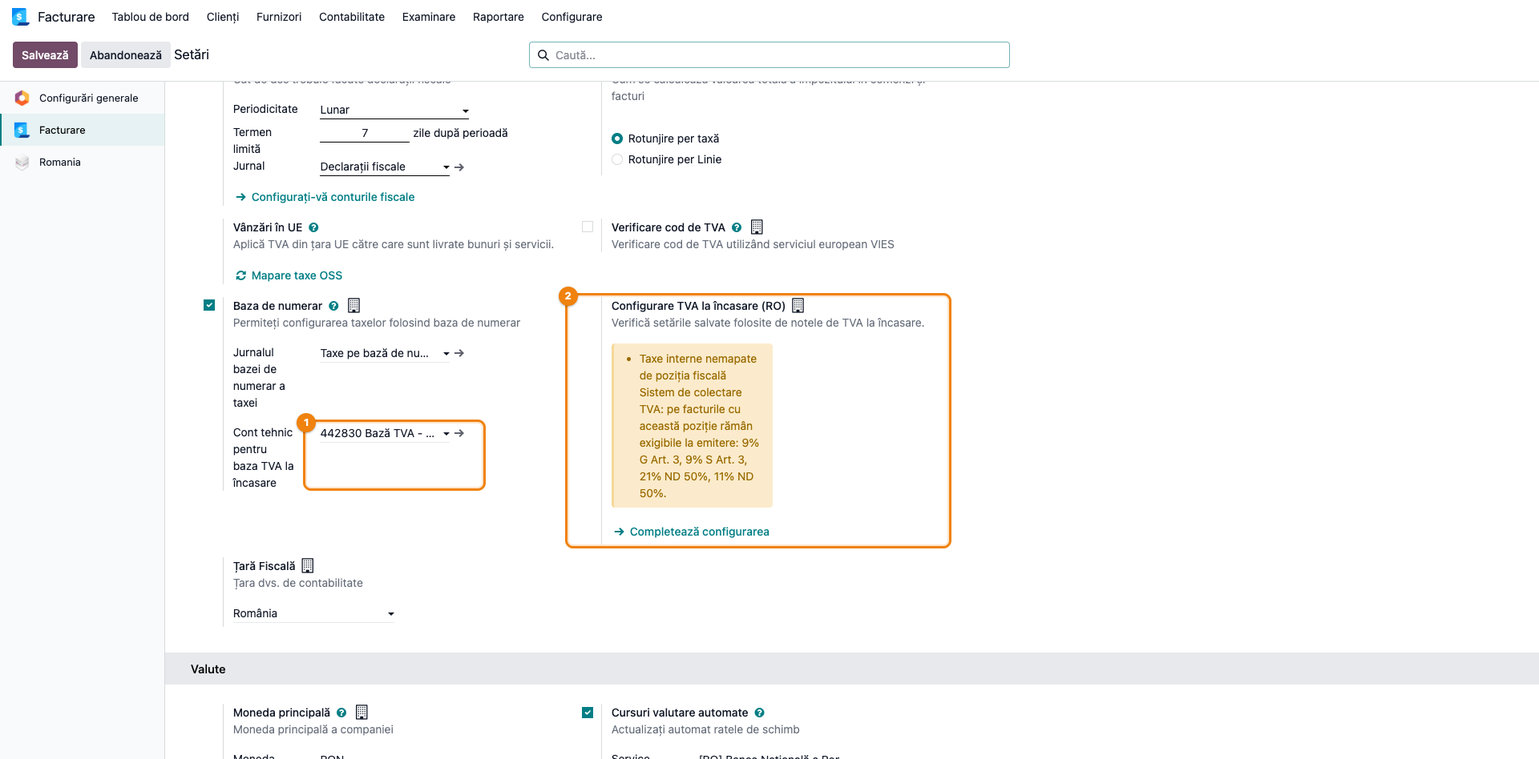
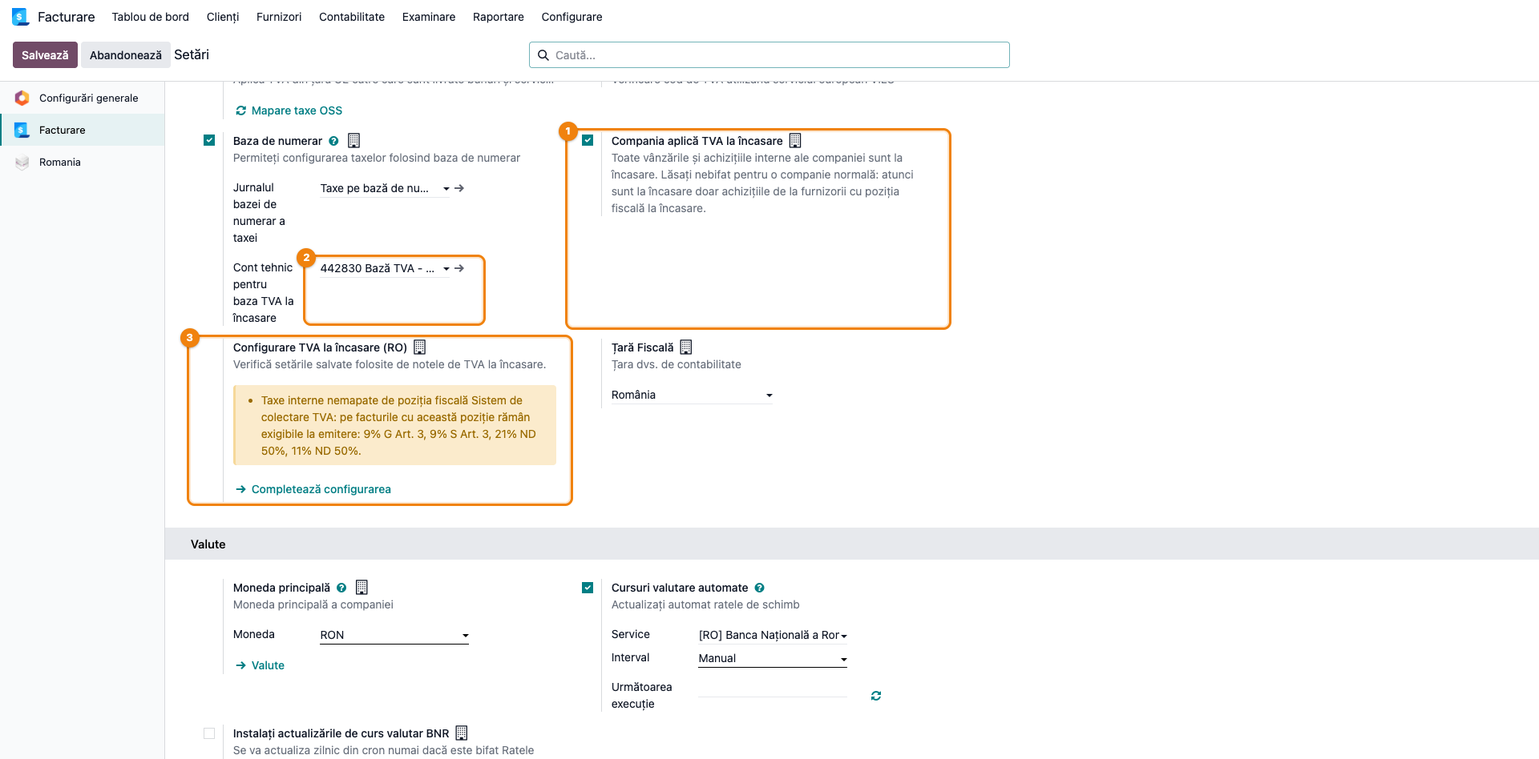
l10n_ro_caba: re-ingestie 19.0.1.1.0 — firma în sistem la încasare automat, vânzarea firmei normale niciodată (l10n_ro_ent#332)

diff --git a/l10n_ro_caba/FISA_CONSULTANT.md b/l10n_ro_caba/FISA_CONSULTANT.md
@@ -27,13 +27,16 @@ setările sunt împrăștiate și prost traduse. Modulul:
 - setează automat, la instalare și la încărcarea planului RO, ce a rămas gol: bifa **Baza de
   numerar**, **jurnalul CABA** și **contul tehnic pentru baza impozabilă 442830**;
 - nu suprascrie nicio valoare deja aleasă de contabil;
+- pune singur poziția fiscală la încasare pe toate facturile și comenzile firmei în sistem (bifa
+  **Compania aplică TVA la încasare**, din Setări) și o scoate de pe facturile de vânzare ale firmei
+  normale — vezi cele 8 cazuri de la 5.4;
 - adaugă în **Setări → Contabilitate → Taxe** o verificare a configurării, cu buton de completare;
 - redenumește câmpul „Cont de primire fiscală de bază" (traducere greșită din nucleu) în
   **„Cont tehnic pentru baza TVA la încasare"**, cu explicație.
 
-Modulul **nu depinde** de OCA `l10n_ro_vat_on_payment`. Acela verifică partenerii în lista ANAF
-și pune singur poziția fiscală pe factură; se poate instala în paralel. Fără el, poziția fiscală
-se pune manual pe partener (vezi pasul 2).
+Modulul **nu depinde** de OCA `l10n_ro_vat_on_payment`. Acela citește regimul partenerilor din
+lista ANAF, cu datele de intrare și ieșire; se poate instala în paralel. Fără el, bifa de pe
+partener se pune manual (vezi pasul 2).
 
 ---
 
@@ -48,6 +51,8 @@ se pune manual pe partener (vezi pasul 2).
 | **Cont de tranziție a bazei de numerar** | Contul de pe taxa la încasare în care stă TVA-ul până la plată: 44281 sau 44282. |
 | **Cont tehnic pentru bază (442830)** | Contul pe care nota CABA scrie baza impozabilă, o dată pe debit și o dată pe credit, doar pentru rândurile de bază din D300. Are mereu sold zero. |
 | **Nota CABA** / **nota de exigibilitate** | Nota creată automat la reconcilierea unei încasări sau plăți cu factura: mută TVA-ul proporțional din 4428 în 4427 / 4426. |
+| **Persoană afiliată** | În practică, o firmă din același grup (legătura e definită la art. 7 pct. 26 Cod fiscal). Între firme din același grup, vânzătorul facturează cu TVA obișnuit, nu la încasare (art. 282 alin. (6) lit. d)). |
+| **Companie / partener în sistem** | Înregistrat(ă) la ANAF în sistemul TVA la încasare. În Odoo: bifa **Compania aplică TVA la încasare** (Setări), respectiv poziția fiscală **Sistem de colectare TVA** pe partener. |
 | **Poziție fiscală** | Regula Odoo care înlocuiește pe factură o taxă cu alta. **Sistem de colectare TVA** înlocuiește TVA-ul obișnuit cu cel la încasare. |
 | **Plată parțială** | Încasarea unei părți din factură. TVA-ul exigibil e proporțional: suma × cotă / (100 + cotă), ex. 605 × 21/121 = 105. |
 | **D300** | Decontul de TVA depus la ANAF. |
@@ -112,6 +117,7 @@ Cu o greșeală de configurare, de exemplu contul tehnic pus pe 44281, verificar
 | Baza de numerar | `tax_exigibility` | bifat |
 | Jurnalul bazei de numerar a taxei | `tax_cash_basis_journal_id` | jurnalul **CABA** „Taxe pe bază de numerar" |
 | Cont tehnic pentru baza TVA la încasare | `account_cash_basis_base_account_id` | **442830 Bază TVA - cont tehnic (sold zero)** |
+| Compania aplică TVA la încasare | `l10n_ro_caba_company` | bifat doar dacă firma e în sistem |
 
 ### 5.2 Contul tehnic pentru bază: de ce 442830 și nu 473
 
@@ -157,7 +163,8 @@ Exigibilitatea și contul de tranziție sunt în fila **Opțiuni Avansate** a ta
 
 Meniu: **Contabilitate → Configurare → Poziții fiscale → Sistem de colectare TVA**. Poziția
 înlocuiește pe factură taxele obișnuite cu cele la încasare (TVA colectat 21% → TVA la colectare
-21% etc.). Nu se aplică automat (e fără „Detectare automată").
+21% etc.). Nu are „Detectare automată": la firma în sistem o pune modulul; la firma normală se pune
+pe furnizorii în sistem (pasul 2).
 
 ![Taxa la încasare 21%: Pe baza plății, cont de tranziție 44281](screenshots/03_taxa_tva_incasare.png)
 
@@ -165,6 +172,61 @@ Taxele pe care le înlocuiește poziția se văd din butonul **Taxe** al poziți
 **Înlocuiește**:
 
 ![Taxele poziției fiscale Sistem de colectare TVA, cu taxele înlocuite](screenshots/04_pozitie_fiscala.png)
+
+### 5.4 Cele 8 cazuri: cine e la încasare
+
+Contează doar regimul **emitentului** facturii și, la achiziții, și regimul **companiei proprii**
+(art. 282, art. 297 alin. (2)–(3)). Regimul clientului nu schimbă nimic pentru vânzător.
+
+| # | Compania proprie | Operațiune | Partener | Rezultat | TVA pe factură | La încasare / plată |
+|---|---|---|---|---|---|---|
+| 1 | normală | vânzare | client normal | TVA obișnuit | 4427 | — |
+| 2 | normală | vânzare | client **în sistem** | **TVA obișnuit** | 4427 | — |
+| 3 | normală | achiziție | furnizor normal | TVA obișnuit | 4426 | — |
+| 4 | normală | achiziție | furnizor **în sistem** | la încasare | 44282 | 4426 = 44282 |
+| 5 | **în sistem** | vânzare | client normal | la încasare | 44281 | 44281 = 4427 |
+| 6 | **în sistem** | vânzare | client în sistem | la încasare | 44281 | 44281 = 4427 |
+| 7 | **în sistem** | achiziție | furnizor normal | la încasare (alin. (3)) | 44282 | 4426 = 44282 |
+| 8 | **în sistem** | achiziție | furnizor în sistem | la încasare | 44282 | 4426 = 44282 |
+
+Cum decide modulul poziția fiscală pe factură:
+
+- **Compania aplică TVA la încasare** bifat → poziția **Sistem de colectare TVA** pe toate
+  facturile, comenzile de vânzare și de achiziție cu parteneri din România (cazurile 5–8);
+- nebifat → poziția vine de pe partener: se pune pe furnizorii în sistem (cazul 4), iar comenzile și
+  facturile de achiziție de la ei o preiau. Pe **facturile de vânzare** modulul o scoate, pentru că
+  regimul clientului nu contează (cazul 2).
+
+Excepții, pe regulile generale (detalii la secțiunea 7):
+
+- **Firme din același grup** (persoane afiliate, art. 7 pct. 26 Cod fiscal; afilierea se apreciază
+  la data facturii — Norme, pct. 26 alin. (14)). Între ele, vânzătorul facturează cu TVA obișnuit
+  (art. 282 alin. (6) lit. d)). Modulul nu le recunoaște singur:
+  - **firma în sistem vinde unei firme din grup:** pe **factura respectivă**, schimbați poziția în
+    **Regimul național (TVA)** înainte de confirmare. Nu puneți poziția pe partener: achizițiile de la
+    el trebuie să rămână cu deducerea la plată (art. 297 alin. (3) nu exceptează firmele din grup);
+  - **firma normală cumpără de la un furnizor în sistem din grup:** nu puneți poziția la încasare pe
+    el — factura lui e cu TVA obișnuit, deci deducerea e imediată (Norme, pct. 67 alin. (6)).
+- **Operațiuni cu locul livrării în afara României** (art. 282 alin. (6) teza I): modulul le
+  recunoaște după țara partenerului și nu pune poziția pentru partenerii din alte țări. **Limitare:**
+  o vânzare taxabilă în România către un partener străin (ex. înregistrat în scopuri de TVA în
+  România, livrare locală cu TVA 21%) ar trebui să fie la încasare; pe astfel de facturi schimbați
+  poziția de mână.
+- **Altă poziție fiscală pusă pe partener** (ex. taxare inversă): câștigă, modulul nu o schimbă.
+
+Clienții persoane fizice sau fără CUI, cu țara România, sunt tot la încasare — legea nu îi exclude.
+Partenerul fără țară e tratat tot ca intern; completați totuși țara, pentru celelalte poziții fiscale
+automate (UE, export). La achizițiile firmei în sistem de la o persoană fizică sau de la un
+neplătitor de TVA nu e nimic de amânat: poziția înlocuiește doar taxele interne taxabile, deci
+factura fără TVA rămâne neschimbată.
+
+**Atenție la cazul 2.** Poziția fiscală de pe partener se aplică pe **orice** document cu el, și la
+vânzare, și la achiziție. La o companie normală, un furnizor în sistem care e și client ar primi
+vânzări la încasare — greșit. Pe facturile de vânzare create direct modulul scoate poziția. **Limitare:**
+comenzile de vânzare și comenzile din POS către acel partener o preiau de pe partener, iar factura
+creată din comandă o păstrează; pe ele schimbați poziția în **Regimul național (TVA)** înainte de
+confirmare. Indicatorul practic pentru orice furnizor e mențiunea „TVA la încasare" de pe factura
+primită: un furnizor în sistem din același grup cu dvs. nu o pune.
 
 ---
 
@@ -175,24 +237,24 @@ Taxele pe care le înlocuiește poziția se văd din butonul **Taxe** al poziți
 **Contabilitate → Configurare → Setări**, secțiunea **Taxe**. Dacă verificarea nu e verde, apăsați
 **Completează configurarea**, apoi rezolvați manual ce a rămas în listă.
 
-### Pasul 2 — Poziția fiscală pe parteneri
+### Pasul 2 — Regimul companiei și al furnizorilor
 
-**Contabilitate → Clienți → Clienți** (sau **Contabilitate → Furnizori → Furnizori**), fila
-**Vânzări & Achiziții**, grupul **Informație fiscală**, câmpul **Poziție fiscală** = **Sistem de
-colectare TVA**:
+- **Firma proprie e în sistem:** în **Setări → Contabilitate → Taxe** bifați **Compania aplică TVA
+  la încasare** (captura de la 5.1). Nu mai e nimic de pus pe parteneri.
+- **Firma proprie e normală:** pe fiecare furnizor în sistem, **Contabilitate → Furnizori →
+  Furnizori**, fila **Vânzări & Achiziții**, grupul **Informație fiscală**, câmpul **Poziție
+  fiscală** = **Sistem de colectare TVA**. Comenzile și facturile de achiziție de la el o preiau.
 
-- **firma proprie aplică TVA la încasare** — pe toți clienții și furnizorii interni (vânzările și
-  achizițiile ei sunt toate la încasare, cu excepțiile de la secțiunea 7);
-- **doar furnizorul aplică TVA la încasare** — pe acel furnizor.
+![Furnizorul cu poziția fiscală Sistem de colectare TVA](screenshots/05_furnizor_tva_incasare.png)
 
-![Partenerul cu poziția fiscală Sistem de colectare TVA](screenshots/05_partener_pozitie_fiscala.png)
-
-Cu OCA `l10n_ro_vat_on_payment` instalat, poziția se pune singură pe factură, după lista ANAF la
-data facturii.
+Regimul partenerilor se verifică în lista ANAF a contribuabililor în sistemul TVA la încasare. Cu
+OCA `l10n_ro_vat_on_payment` instalat, lista se descarcă și se aplică automat, cu datele de intrare
+și ieșire din sistem.
 
 ### Pasul 3 — Factura de vânzare
 
-Factura: 1.000 lei + TVA 21% = 1.210 lei, cu poziția **Sistem de colectare TVA**. Taxa de pe linie
+Cazurile 5–6 (firma proprie în sistem). Factura: 1.000 lei + TVA 21% = 1.210 lei; poziția
+**Sistem de colectare TVA** se pune singură. Taxa de pe linie
 devine **TVA la colectare - colectat 21%**. Pe factură trebuie să apară mențiunea „TVA la
 încasare" (art. 319 alin. (20) lit. p)).
 
@@ -226,7 +288,8 @@ Nota se deschide din butonul **Înregistrări pe bază de numerar** de pe factur
 
 ### Pasul 5 — Achiziția
 
-Factură de la un furnizor cu **Sistem de colectare TVA**: 1.000 lei + 210 TVA.
+Cazurile 4, 7 și 8 (furnizorul sau firma proprie în sistem). Factură de 1.000 lei + 210 TVA; poziția
+**Sistem de colectare TVA** vine de pe furnizor sau, la firma în sistem, se pune singură.
 
 | Moment | Cont | Debit | Credit |
 |---|---|---:|---:|
@@ -263,26 +326,43 @@ Meniu: **Contabilitate → Raportare → Declarații fiscale**, raportul **VAT R
 | D300 (`l10n_ro_anaf_d300`) | Rândurile de bază și TVA se alimentează din grilele de pe nota CABA, în luna încasării. |
 | `l10n_ro_vat_on_payment_lock` | Blochează desfacerea reconcilierii dacă nota CABA e într-o perioadă deja declarată. |
 | OCA `l10n_ro_vat_on_payment` | Opțional: lista ANAF și poziția fiscală automată pe factură. |
-| OCA `l10n_ro_dvi`, `l10n_ro_nondeductible_vat` | Folosesc același cont tehnic pentru liniile lor de bază. |
+| Vânzări / Achiziții (comenzi) | La firma în sistem, comenzile de vânzare și de achiziție primesc poziția la încasare, iar facturile create din ele o preiau. La firma normală, comenzile de achiziție preiau poziția furnizorului. |
+| Comenzi de vânzare / POS, firmă normală | **Limitare:** către un furnizor în sistem care e și client, comanda preia poziția la încasare de pe partener, iar factura creată din ea o păstrează. Schimbați poziția în **Regimul național (TVA)** pe comandă sau pe factură. |
+| OCA `l10n_ro_dvi`, `l10n_ro_nondeductible_vat` | Folosesc același cont tehnic pentru liniile lor de bază. TVA-ul nedeductibil nu trece prin 44282 — se amână doar partea deductibilă (Norme, pct. 67 alin. (8)). |
 | SAF-T (D406) | 442830 apare în balanță și în registrul jurnal cu rulaje egale; trebuie mapat pe 4428. |
 | Jurnale TVA (`l10n_ro_account_vat_journal`) | Raportează TVA-ul la încasare în luna încasării. |
 
-**Operațiuni excluse** (art. 282 alin. (6)): pe ele se aplică regulile generale chiar dacă firma e
-în sistem, deci nu primesc taxa la încasare:
+**Operațiuni excluse la vânzare** (art. 282 alin. (6)): pe ele se aplică regulile generale chiar dacă
+firma e în sistem, deci nu primesc taxa la încasare:
 
 - taxarea inversă (art. 307 alin. (2)–(6) și art. 331);
 - operațiunile scutite de TVA;
 - regimurile speciale din art. 311–313 (agenții de turism, second-hand, artă, aur de investiții);
-- livrările către persoane afiliate;
-- pe achiziții: importul, achizițiile intracomunitare și taxarea inversă nu amână deducerea
-  (art. 297 alin. (3)) — TVA-ul din DVI nu trece prin 44282.
+- livrările către firme din același grup (persoane afiliate) — poziția se schimbă de mână pe
+  factură, vezi 5.4.
+
+**Nu amână deducerea** (art. 297 alin. (3)): importul, achizițiile intracomunitare și taxarea
+inversă — TVA-ul din DVI nu trece prin 44282. Nici TVA-ul nedeductibil: se amână doar partea
+deductibilă (Norme, pct. 67 alin. (8)).
 
 Poziția fiscală mapează doar taxele interne taxabile, deci aceste operațiuni rămân pe regulile
-generale dacă au taxele lor proprii. Livrările către persoane afiliate nu se pot deosebi după taxă:
-pentru acești clienți nu puneți poziția fiscală.
+generale dacă au taxele lor proprii.
 
-**Ieșirea din sistem:** facturile emise înainte rămân la încasare, oricând s-ar încasa (art. 282
-alin. (7) lit. b)). Soldul 4428 nu se reclasifică automat.
+**Intrarea și ieșirea din sistem.** Ieșirea la cerere sau prin depășirea plafonului produce efecte de
+la prima zi a perioadei fiscale următoare (art. 282 alin. (5)); la mijloc de perioadă se iese doar la
+scoaterea din evidența TVA sau la intrarea într-un grup fiscal unic (Norme, pct. 26 alin. (17)).
+Facturile emise cât s-a aplicat sistemul rămân la încasare oricând s-ar încasa (art. 282 alin. (3));
+pentru facturile de avans emise înainte de ieșire, cu livrarea după ieșire, sistemul continuă doar
+pentru suma facturată înainte (art. 282 alin. (7) lit. b)), iar încasările parțiale se atribuie
+întâi părții facturate înainte de ieșire (Norme, pct. 26 alin. (15) lit. b)). Simetric, facturile
+emise înainte de intrare nu intră în sistem (art. 282 alin. (7) lit. a)). La achiziții, TVA-ul de pe
+facturile primite cât ați aplicat sistemul se deduce tot la plată.
+
+**Bifa și poziția nu au dată:** schimbați **Compania aplică TVA la încasare** exact la data de efect,
+după ce ați confirmat ciornele; comenzile și ciornele create înainte păstrează poziția veche —
+verificați-le. La fel, scoateți poziția **Sistem de colectare TVA** de pe furnizor la data ieșirii
+lui din registrul ANAF (automat cu OCA `l10n_ro_vat_on_payment`). Facturile confirmate nu se modifică, iar
+soldul 4428 nu se reclasifică.
 
 **Facturi neîncasate:** nu există un termen după care TVA-ul devine exigibil automat; soldul rămâne
 pe 4428 până la încasare, compensare sau cesiune, ori până la o ajustare după art. 287.
@@ -311,11 +391,11 @@ Generate reproductibil de `tests/test_screenshots.py` (companie RO, plan RO, dat
 
 | # | Fișier | Ce arată |
 |---|---|---|
-| 1 | `01_setari_caba.png` | Setări → Taxe: Baza de numerar, jurnalul CABA, contul tehnic 442830 și verificarea RO |
+| 1 | `01_setari_caba.png` | Setări → Taxe: Baza de numerar, jurnalul CABA, contul tehnic 442830, bifa „Compania aplică TVA la încasare" și verificarea RO |
 | 2 | `02_setari_caba_eroare.png` | Verificarea cu contul tehnic pus greșit pe 44281 |
 | 3 | `03_taxa_tva_incasare.png` | Taxa la încasare 21%, fila Opțiuni Avansate |
 | 4 | `04_pozitie_fiscala.png` | Taxele poziției Sistem de colectare TVA și ce înlocuiesc |
-| 5 | `05_partener_pozitie_fiscala.png` | Partenerul cu poziția fiscală |
+| 5 | `05_furnizor_tva_incasare.png` | Furnizorul cu poziția fiscală Sistem de colectare TVA |
 | 6 | `06_factura_vanzare.png` | Factura de vânzare, elemente jurnal (44281) |
 | 7 | `07_nota_caba_vanzare.png` | Nota CABA după încasarea parțială |
 | 8 | `08_factura_achizitie.png` | Factura de achiziție, elemente jurnal (44282) |

diff --git a/l10n_ro_caba/index.md b/l10n_ro_caba/index.md
@@ -1,7 +1,7 @@
 # Romania - TVA la încasare (CABA) (FR-16) (localizat la `l10n_ro_caba/index.md`)
 
 - **Nume Tehnic:** `l10n_ro_caba`
-- **Versiune:** `19.0.1.0.0`
+- **Versiune:** `19.0.1.1.0`
 - **Cale:** https://github.com/terrabit-solutions/l10n_ro_ent/tree/19.0/l10n_ro_caba
 - **Cale Locală:** `odoo-addons/l10n_ro_ent/l10n_ro_caba`
 - **Ultima Ingestie:** `2026-09-25`
@@ -13,9 +13,12 @@ Modulul completează configurarea TVA la încasare (mecanismul nativ Odoo *cash 
 CABA) pe planul de conturi al României. Planul RO aduce taxele la încasare, poziția fiscală
 „Sistem de colectare TVA" și jurnalul CABA, dar lasă nesetat contul tehnic pe care se scriu
 liniile de bază din notele de exigibilitate — fără el, la fiecare încasare baza rulează debit =
-credit pe contul de venit sau cheltuială al facturii, ceea ce umflă rulajul acelui cont. Modulul
-setează automat ce lipsește, semnalează în Setări orice configurare incompletă și oferă contabilului
-o fișă consultant cu fluxul complet, notele contabile și reflectarea în D300.
+credit pe contul de venit sau cheltuială al facturii, ceea ce umflă rulajul acelui cont. Peste
+configurarea automată, modulul decide **cine e efectiv la TVA la încasare** pe fiecare document —
+firmă proprie, furnizor sau client — combinând bifa companiei cu poziția fiscală de pe partener,
+astfel încât o firmă normală nu ajunge niciodată să vândă cu TVA la încasare doar pentru că regimul
+clientului o cerea. Semnalează în Setări orice configurare incompletă și oferă contabilului o fișă
+consultant cu fluxul complet, matricea celor 8 cazuri, notele contabile și reflectarea în D300.
 
 #### 2. Funcționalități Cheie
 
@@ -24,19 +27,34 @@ o fișă consultant cu fluxul complet, notele contabile și reflectarea în D300
   **442830 „Bază TVA - cont tehnic (sold zero)"**, creat dacă lipsește; nu suprascrie valorile deja
   alese de contabil. Rulează doar dacă firma are taxe la încasare (`tax_exigibility = on_payment`)
   configurate pe planul RO.
+- Bifă nouă în Setări, **Compania aplică TVA la încasare** (`l10n_ro_caba_company`): pentru o firmă
+  înregistrată la ANAF în sistem, toate facturile și comenzile (vânzare, achiziție, POS) cu
+  parteneri din România primesc singure poziția fiscală **Sistem de colectare TVA**, fără să mai
+  fie nevoie s-o pună cineva pe fiecare partener. O poziție deja aleasă manual pe partener (ex.
+  taxare inversă) câștigă și nu e înlocuită.
+- Pentru o firmă **normală** (bifa nebifată), regimul se citește doar de pe partener: o achiziție
+  de la un furnizor cu poziția **Sistem de colectare TVA** e la încasare, dar o vânzare **niciodată**
+  — chiar dacă furnizorul respectiv e și client, factura lui de vânzare rămâne la TVA obișnuit
+  (regimul cumpărătorului nu contează pentru exigibilitate, art. 282 alin. (3) Cod fiscal). Modulul
+  scoate automat poziția la încasare de pe facturile de vânzare ale firmei normale la calculul
+  poziției fiscale.
 - În **Contabilitate → Configurare → Setări → Taxe**, sub blocul „Baza de numerar", adaugă blocul
   „Configurare TVA la încasare (RO)" cu o verificare vizibilă doar pentru companii cu țara fiscală
-  România: CABA dezactivat, jurnal lipsă, taxe la încasare fără cont de tranziție (4428), cont de
-  bază gol, cont de bază suprapus peste 44281/44282 sau pus pe un cont de venituri/cheltuieli, taxe
-  interne nemapate de poziția fiscală pe încasare.
+  România (afișată acum pe toată lățimea blocului, nu doar pe lățimea textului): CABA dezactivat,
+  jurnal lipsă, taxe la încasare fără cont de tranziție (4428), cont de bază gol, cont de bază
+  suprapus peste 44281/44282 sau pus pe un cont de venituri/cheltuieli, taxe interne nemapate de
+  poziția fiscală pe încasare.
   Butonul **Completează configurarea** rulează aceeași setare automată din instalare, doar pe
   compania curentă.
 - Redenumește în interfață câmpul „Cont de primire fiscală de bază" (traducere greșită moștenită
   din nucleu) în „Cont tehnic pentru baza TVA la încasare" și explică rolul lui în tooltip.
-- Fișa consultant descrie fluxul complet: configurare inițială, poziția fiscală pusă pe parteneri,
-  notele contabile la facturare și la încasările/plățile parțiale, reflectarea în D300, operațiunile
-  excluse din mecanism și motivul alegerii contului tehnic 442830 (analitic al 4428, lângă
-  44281/44282) în locul contului 473 (sume în curs de clarificare).
+- Fișa consultant, verificată de expert contabil, descrie fluxul complet: configurare inițială,
+  matricea celor 8 cazuri companie × partener × sens (cine e la încasare, pe vânzare și pe
+  achiziție), excepțiile (firme din același grup, parteneri străini, persoane fizice, TVA
+  nedeductibil), intrarea și ieșirea din sistem, limitarea comenzilor de vânzare și POS către un
+  furnizor care e și client, notele contabile la facturare și la încasările/plățile parțiale,
+  reflectarea în D300, operațiunile excluse din mecanism și motivul alegerii contului tehnic 442830
+  (analitic al 4428, lângă 44281/44282) în locul contului 473 (sume în curs de clarificare).
 - Nu depinde de modulul OCA `l10n_ro_vat_on_payment` (lista ANAF de firme la încasare și aplicarea
   automată a poziției fiscale pe factură); cele două module se pot instala împreună. Controlul pe
   perioadele deja declarate rămâne în `l10n_ro_vat_on_payment_lock`.
@@ -51,21 +69,35 @@ o fișă consultant cu fluxul complet, notele contabile și reflectarea în D300
 **Modele**
 
 - `res.company` (extindere): adaugă `account_cash_basis_base_account_id` (contul tehnic 442830) și
-  metodele `_l10n_ro_caba_setup()` (completează configurarea, doar câmpurile goale),
-  `_l10n_ro_caba_check()` / `_l10n_ro_caba_check_html()` (verificarea afișată în Setări) și
-  `_l10n_ro_caba_get_base_account()` (caută sau creează contul 442830).
-- `res.config.settings` (extindere): expune `account_cash_basis_base_account_id` și câmpul calculat
-  `l10n_ro_caba_check_html`; acțiunea `action_l10n_ro_caba_setup()` din butonul „Completează
-  configurarea" declanșează setarea și reîncarcă pagina.
+  bifa `l10n_ro_caba_company` (Compania aplică TVA la încasare); metodele
+  `_l10n_ro_caba_setup()` (completează configurarea, doar câmpurile goale),
+  `_l10n_ro_caba_check()` / `_l10n_ro_caba_check_html()` (verificarea afișată în Setări),
+  `_l10n_ro_caba_get_base_account()` (caută sau creează contul 442830), `_l10n_ro_caba_applies()`
+  (compania, sau părintele ei pentru o ramură, e în sistem), `_l10n_ro_caba_domestic_partner()`
+  (partenerul e din România sau fără țară), `_l10n_ro_caba_replaceable()` (doar poziția obișnuită
+  se înlocuiește cu cea la încasare, nu o poziție specială aleasă manual) și
+  `_l10n_ro_caba_fiscal_position()` (poziția „Sistem TVA la încasare" din planul RO).
+- `account.fiscal.position` (extindere): `_get_fiscal_position()` aplică poziția la încasare
+  automat pentru o companie în sistem, pe orice document cu partener intern fără poziție pusă
+  manual — de aici o iau atât facturile, cât și comenzile de vânzare și de achiziție.
+- `account.move` (extindere): `_compute_fiscal_position_id()` scoate poziția la încasare de pe
+  facturile de vânzare ale unei firme **normale** (fără bifa `l10n_ro_caba_company`), chiar dacă
+  clientul e și furnizor cu poziția pusă pe partener — regimul cumpărătorului nu influențează
+  exigibilitatea la vânzare.
 - `account.chart.template` (extindere): `_post_load_data()` rulează `_l10n_ro_caba_setup()` după
   încărcarea planului de conturi RO, ca pas echivalent celui din `post_init_hook` pentru companiile
   create după instalarea modulului.
+- `res.config.settings` (extindere): expune `account_cash_basis_base_account_id`,
+  `l10n_ro_caba_company` (related pe companie) și câmpul calculat `l10n_ro_caba_check_html`;
+  acțiunea `action_l10n_ro_caba_setup()` din butonul „Completează configurarea" declanșează setarea
+  și reîncarcă pagina.
 
 **Vizualizări**
 
 - `res_config_settings_view_form_l10n_ro_caba`: extinde formularul de setări contabile — redenumește
   eticheta câmpului de cont tehnic și adaugă blocul „Configurare TVA la încasare (RO)" (vizibil doar
-  pentru `country_code = 'RO'`) cu textul verificării și butonul de completare automată.
+  pentru `country_code = 'RO'`) cu bifa Compania aplică TVA la încasare, textul verificării pe toată
+  lățimea blocului și butonul de completare automată.
 
 **Acțiuni Automate / Acțiuni Server**
 

diff --git a/log.md b/log.md
@@ -17,6 +17,21 @@ This is an append-only log of all operations performed on the wiki.
 - **Dependențe/Conexiuni:** `l10n_ro_caba`, `l10n_ro_anaf_d300`, `l10n_ro_anaf_d394`, `l10n_ro_reverse_charge_331`.
 - **Fișiere actualizate:** `index.md` (linie actualizată), `l10n_ro_account_vat_journal/` (pagină, fișă, capturi).
 
+## [2026-09-25] TVA la încasare (CABA) — re-ingestie `l10n_ro_caba` 19.0.1.1.0
+
+- **Acțiune:** Re-ingestie (1 subagent `documentarist-wiki`) după merge-ul l10n_ro_ent#332.
+  - bifă nouă „Compania aplică TVA la încasare": firma în sistem are automat poziția la încasare pe
+    toate facturile și comenzile cu parteneri din România;
+  - firma normală: regimul furnizorului rămâne pe poziția fiscală de pe partener; modulul o scoate
+    de pe facturile de vânzare (regimul clientului nu contează pentru vânzător);
+  - fișa: matricea celor 8 cazuri companie × partener × sens, excepțiile, intrarea/ieșirea din
+    sistem, limitarea comenzilor de vânzare/POS.
+- **Sursă:** `readme/DESCRIPTION.md`, `USAGE.md`, `CONFIGURE.md`, `HISTORY.md`, `readme/FISA_CONSULTANT.md`,
+  cod (`models/`).
+- **Fișe consultant:** resincronizată, 10 capturi (05 redenumită în `05_furnizor_tva_incasare.png`,
+  vechea `05_partener_pozitie_fiscala.png` ștearsă).
+- **Fișiere actualizate:** `index.md` (intrare actualizată), `l10n_ro_caba/` (pagină, fișă, capturi).
+
 ## [2026-09-25] TVA la încasare (CABA) — pagină nouă `l10n_ro_caba`
 
 - **Acțiune:** Ingestie (1 subagent `documentarist-wiki`) după merge-ul l10n_ro_ent#328.
